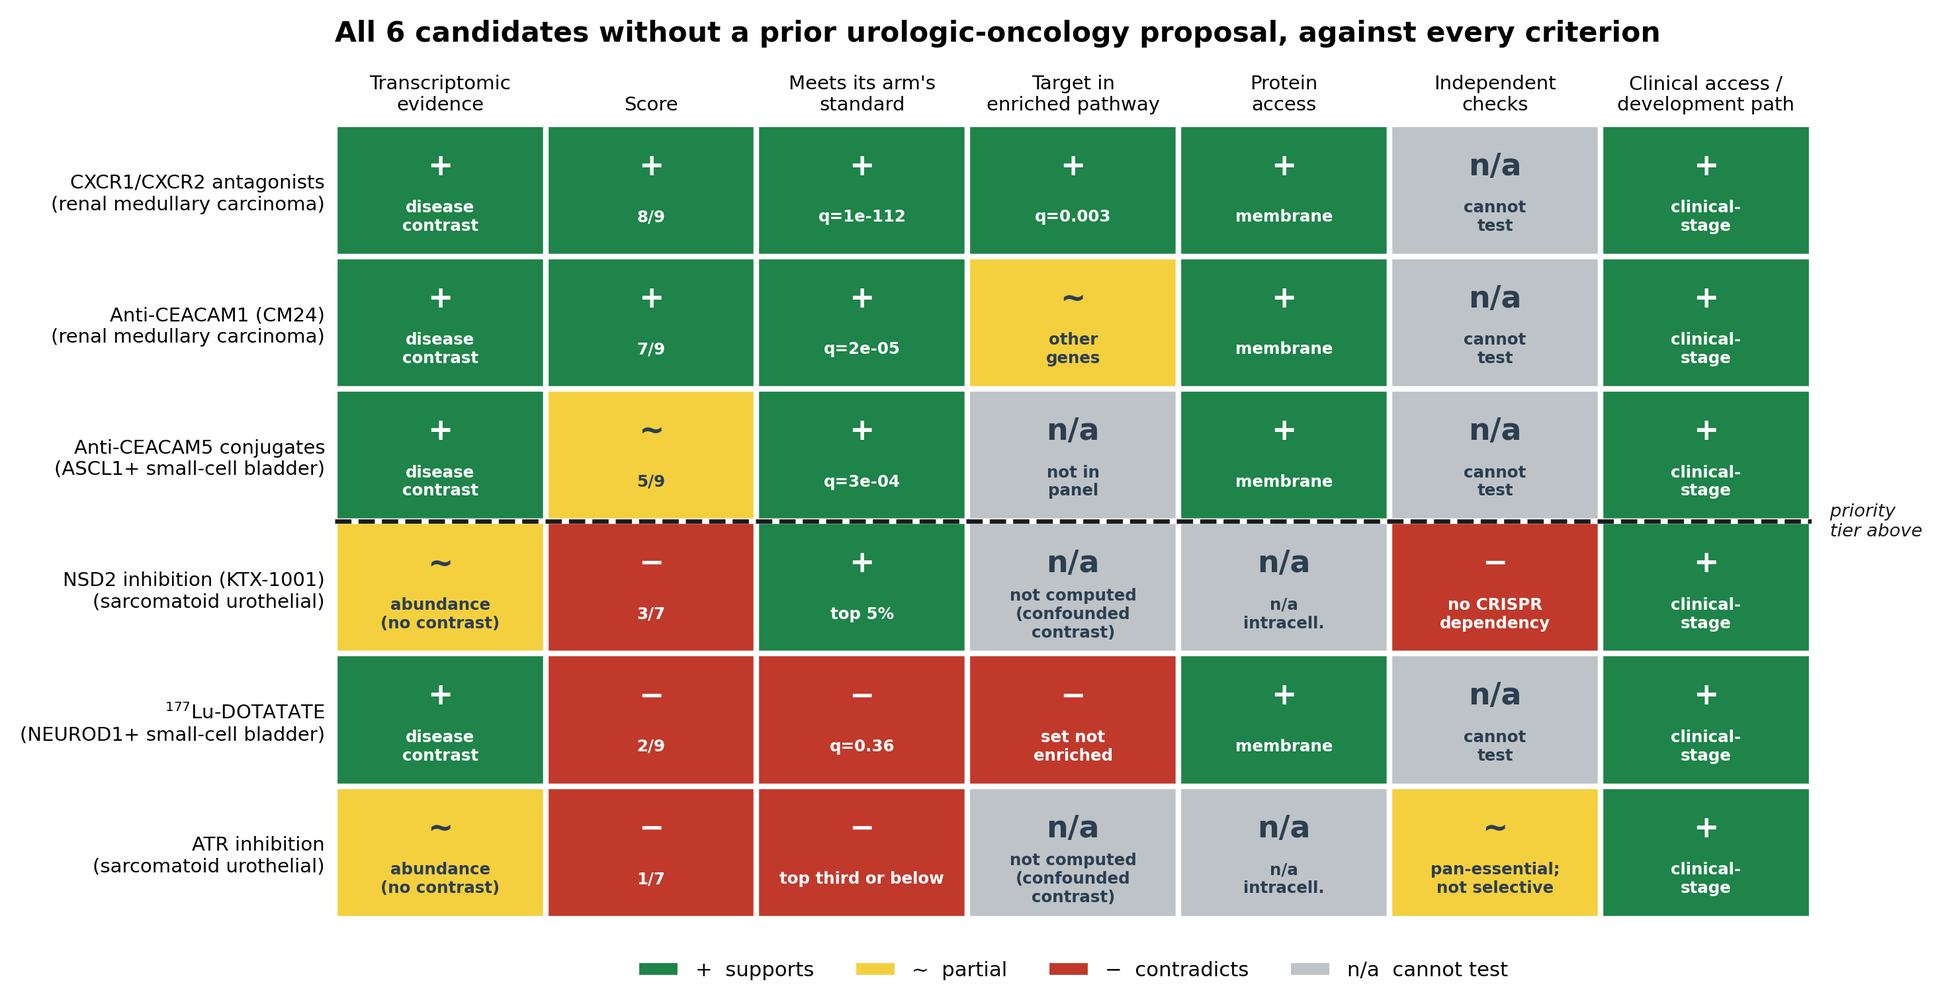
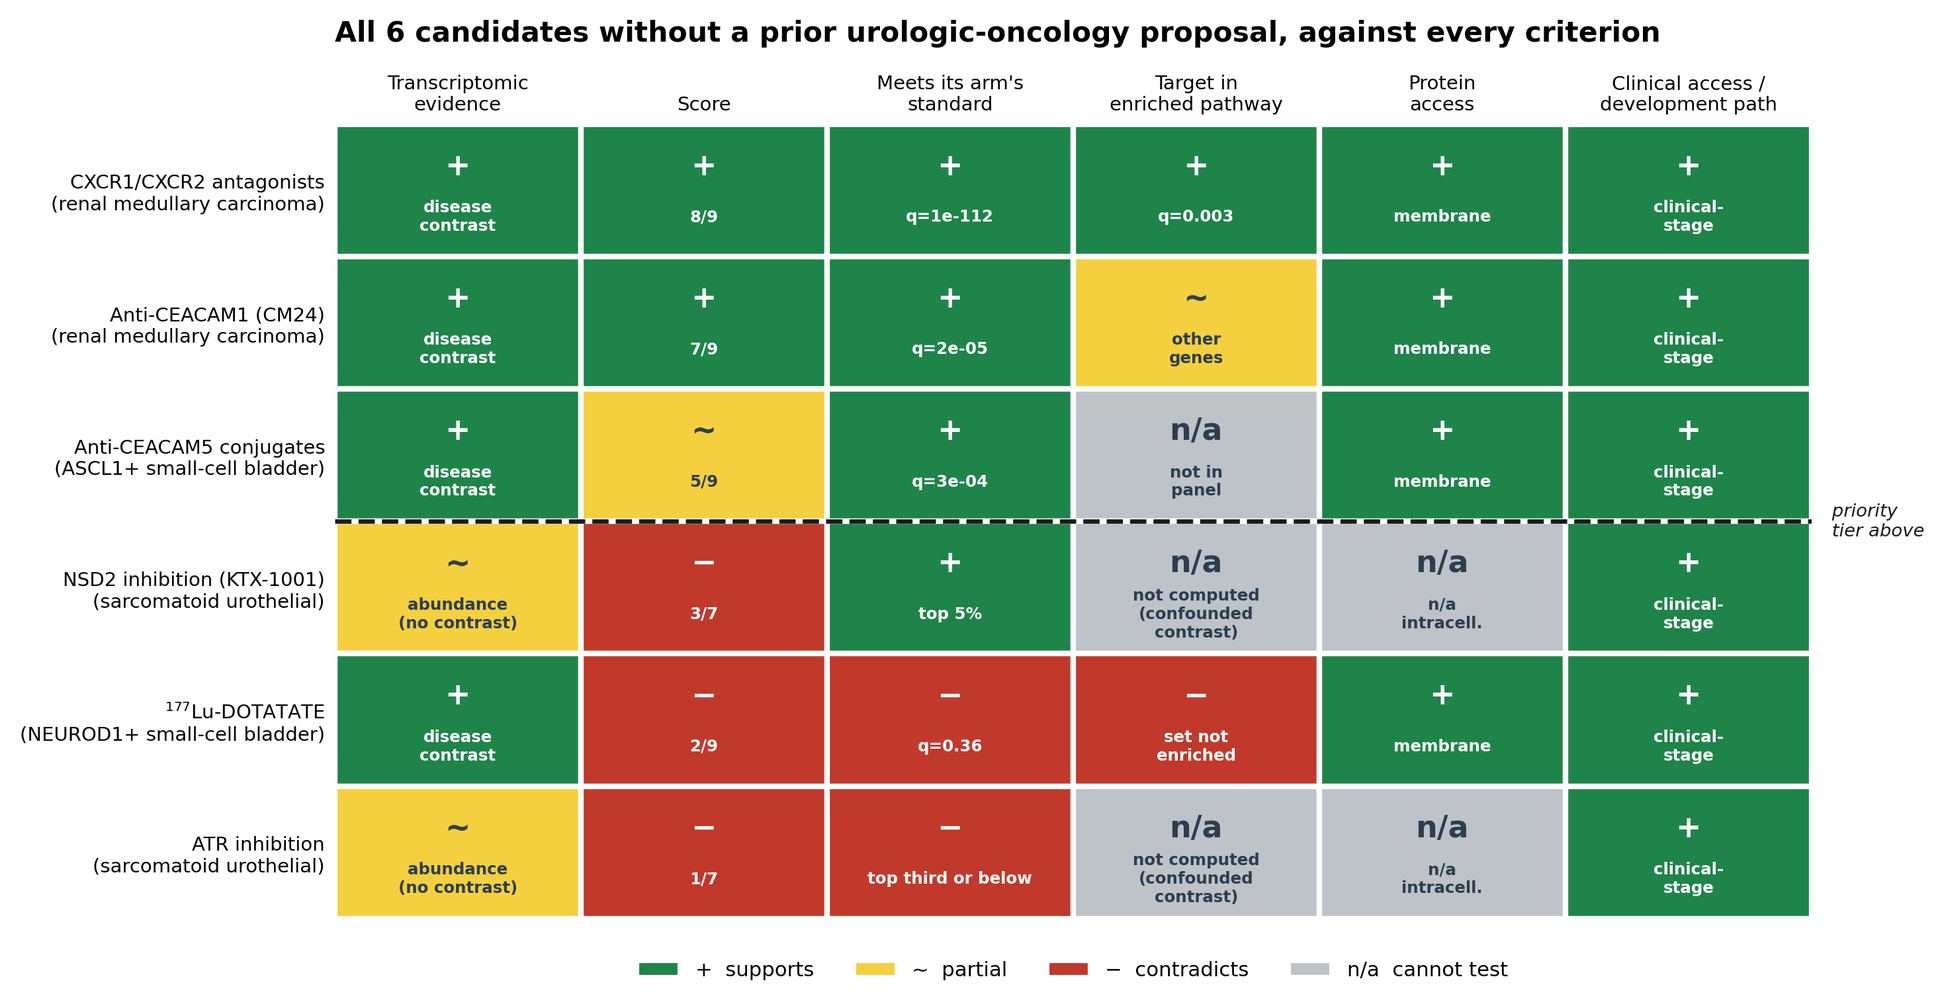
Move the independent checks to the Supplementary Materials
The four sources changed no ranking, the paper said so, and in Figure 4 they
occupied a column that was five "cannot test" cells and one contradiction. On
the author's judgement, and on that evidence, they do not earn main-text space.

Removed from the main text: the Results "Independent Checks" section, the
Methods "Independent Sources" subsection, the two consistency checks from the
ranking criteria, Step 7 of Figure 1, and the independent-checks column of
Figure 4. Figure 1's association table now leads straight to the reported
candidates and the vertical gap Step 7 left is closed.

Two things are deliberately kept. The Human Protein Atlas citation moves into
the two sentences that assert a target sits at the cell membrane: two of the
three prioritized candidates are antibody proposals, and that claim needs its
source whether or not there is a checks section. And one sentence in Data
Availability records that DepMap, PRISM and LINCS were checked, changed no
ranking, and are reported in full in the supplement - which keeps those four
references cited and answers a reviewer who asks whether external resources
were consulted.

The renal medullary qualification is reworded rather than dropped. It said the
dependency and compound screens cannot test a myeloid mechanism; it now says no
tumor-cell assay can, which is the actual point and does not depend on sections
the main text no longer contains.
[…]

diff --git a/code/pipeline/48_build_manuscript_v29.py b/code/pipeline/48_build_manuscript_v29.py
@@ -206,9 +206,8 @@ P(f"Methods. We used TCGA and GEO "
   f"drug-target curation were combined into a 9-point score. Differential "
   f"expression was fitted with models matched to how each dataset was built, "
   f"using limma and edgeR. After scoring, we classified associations by "
-  f"whether they had been proposed before, checked them against four "
-  f"independent sources not used in scoring, and ranked them by a rule "
-  f"written in advance.")
+  f"whether they had been proposed before, and ranked them by a rule written "
+  f"in advance.")
 P(f"Results. We scored {F['n_associations']} drug-cancer associations: "
   f"{F['tiers'].get('Strong', 0)} Strong, {F['tiers'].get('Moderate', 0)} "
   f"Moderate, {F['tiers'].get('Exploratory', 0)} Exploratory and "
@@ -342,14 +341,6 @@ P(f"This was a curated search rather than an exhaustive screen, and the "
   f"fold change above 0.5, and most of those genes have no clinically "
   f"evaluable agent.")
 
-H('Independent Sources', 11.5, 10, level=2)
-P('Candidates were checked against four '
-  'independent '
-  'sources that took no part in scoring: the Human Protein Atlas for '
-  'localization and normal-tissue expression, DepMap for CRISPR dependency, '
-  'the PRISM Repurposing screen for compound activity, and LINCS L1000 for '
-  'signature reversal.')
-
 H('Prioritization Score', 11.5, 10, level=2)
 P('Each association received 0 to 9 points across four dimensions: genomic '
   'evidence (0\u20133), transcriptomic evidence (0\u20133), pathway evidence '
@@ -389,11 +380,7 @@ for _c in ('no prior urologic-oncology proposal identified;',
     _p.paragraph_format.space_after = Pt(2)
     for _r in _p.runs:
         _r.font.size = Pt(10.5)
-P('Two consistency checks were applied in addition: that no independent '
-  'source contradict the candidate, and that target accessibility match the '
-  'kind of agent proposed, a source unable to evaluate a candidate counting '
-  'as neither. '
-  'Where a disease held more than one prioritized candidate, the first rank '
+P('Where a disease held more than one prioritized candidate, the first rank '
   'also '
   'required that the target belong to an enriched pathway. A candidate that '
   'missed a criterion is reported with that criterion named.')
@@ -512,60 +499,6 @@ P(f"Penile squamous cell carcinoma is reported in the Supplementary Results "
   f"converges on the established pembrolizumab priority [49\u201351], with "
   f"two partially-novel candidates alongside it [52\u201354]; none of its "
   f"associations was without a prior proposal.")
-H('Independent Checks', 11.5, 10, level=2)
-P('Most associations are nominated from transcript abundance, which shows that '
-  'a gene is transcribed but not that the cell depends on it or that its '
-  'protein reaches the cell surface. We therefore checked the nominated '
-  'targets against four sources not used in scoring. None of the four can '
-  'establish that an agent works, each is unable to evaluate some candidates, '
-  'and none of them changed which candidates were prioritized. Full '
-  'results for all four are in the Supplementary Materials, including the '
-  'LINCS L1000 signature-reversal analysis [55,56], which returned the same '
-  'agents across unrelated lineages and so could not distinguish candidates.')
-
-P(f"Protein localization is the check most relevant to these proposals, "
-  f"because an antibody or conjugate must reach its target from outside the "
-  f"cell. All {F['hpa']['n_surface_assoc']} associations whose agent "
-  f"binds from outside the cell have confirmed extracellular access in the "
-  f"Human "
-  f"Protein Atlas [57], which shows where the protein is, not how much is "
-  f"present in the tumor. "
-  f"Normal-tissue RNA is reported for orientation only and is not a "
-  f"therapeutic-window comparison: CEACAM1 is substantially expressed in "
-  f"normal kidney ({F['hpa']['CEACAM1_kidney']} normalized transcripts per "
-  f"million) and warrants protein-level safety assessment. Per-target values "
-  f"are in Supplementary Table S1.")
-
-P(f"Both screens returned the expected result for targets with a known "
-  f"answer. In DepMap [58], across "
-  f"{F['depmap']['n_urothelial_lines']} urothelial lines stratified by "
-  f"genotype and target expression from CCLE via cBioPortal [3], RPL5 scores "
-  f"{F['depmap']['RPL5']:.2f} on the Chronos scale, and PIK3CA-mutant lines "
-  f"are selectively "
-  f"dependent on PIK3CA ({F['depmap']['PIK3CA_mut']:.2f} versus "
-  f"{F['depmap']['PIK3CA_wt']:.2f}). In the PRISM Repurposing screen across "
-  f"up to {F['prism']['n_lines']} cell lines [59], compared by two-sided Welch test "
-  f"with Benjamini-Hochberg correction, erlotinib is markedly more active in "
-  f"urothelial lines ({F['prism']['erlotinib_uro']:.2f} versus "
-  f"{F['prism']['erlotinib_nonuro']:.2f}; q = {F['prism']['erlotinib_q']:.4f}). "
-  f"That comparison is urothelial, not renal medullary: the renal medullary "
-  f"line itself sits at the {ordinal(round(F['prism']['erlotinib_rmc_pct']))} "
-  f"percentile of all lines, so the screen supports erlotinib in urothelial "
-  f"cancer but not the renal medullary rationale it was nominated for.")
-
-P(f"Two results apply to our own candidates. Urothelial cells do not require "
-  f"NSD2 even where they express it most highly "
-  f"({F['depmap']['NSD2_high']:+.2f}), and the ATR inhibitor VE-822 is not "
-  f"urothelial-selective (q = {F['prism']['ve822_q']:.2f}) where an earlier, "
-  f"weaker comparison had called it so. Both candidates were already outside "
-  f"the prioritized set on their scores, so neither screen altered the ranking. "
-  f"Neither screen can evaluate an antibody, conjugate or radioligand, whose "
-  f"agent delivers a payload rather than exploiting an essential target, nor a "
-  f"mechanism that acts through myeloid recruitment rather than on the tumor "
-  f"cell; the four screened CXCR1/CXCR2 antagonists accordingly show no "
-  f"tumor-cell-autonomous activity in any lineage, which is what a "
-  f"myeloid-directed mechanism would predict.")
-
 H('Candidates Without a Prior Proposal', 11.5, 10, level=2)
 P(f"Figure 4 and Table 1 together give the whole set: every association, how "
   f"it performs against each criterion, and the evidence behind it. "
@@ -599,7 +532,8 @@ P(f"We rank the prioritized candidates within a disease, not between diseases. "
 P(f"Within renal medullary carcinoma we would carry CXCR1/CXCR2 blockade "
   f"forward first, at {lead['total']}/9. Its chemokine ligands are "
   f"elevated in both patient-derived lines, both receptors are confirmed "
-  f"membrane proteins, and the antagonist class is already in clinical "
+  f"membrane proteins in the Human Protein Atlas [55], and the "
+  f"antagonist class is already in clinical "
   f"development with human pharmacology and safety data. CXCR1 and CXCR2 "
   f"belong to a chemokine gene set enriched in both lines "
   f"(q = {q['rmc_chemokine']:.4f}) and CEACAM1 belongs to no enriched set, "
@@ -617,7 +551,8 @@ P(f"Within renal medullary carcinoma we would carry CXCR1/CXCR2 blockade "
 P(f"Anti-CEACAM5 conjugates in ASCL1-positive small-cell bladder cancer are the "
   f"third prioritized candidate. CEACAM5 is strongly enriched in that subtype "
   f"({de['CEACAM5_ascl1']['log2FC']:+.2f}, "
-  f"q = {fmt(de['CEACAM5_ascl1']['q'])}), confirmed at the membrane and low "
+  f"q = {fmt(de['CEACAM5_ascl1']['q'])}), confirmed at the membrane in the "
+  f"Human Protein Atlas [55] and low "
   f"in normal bladder RNA ({F['hpa']['nTPM']['CEACAM5']} normalized "
   f"transcripts per million, which orients safety planning rather than "
   f"demonstrating a systemic therapeutic window), and the drug class is in "
@@ -626,10 +561,9 @@ P(f"Anti-CEACAM5 conjugates in ASCL1-positive small-cell bladder cancer are the 
   f"sets, so no pathway evidence supports it, and that subtype-specific protein "
   f"expression, internalization and payload sensitivity in small-cell bladder "
   f"cancer are all untested.")
-P(f"One qualification applies to the renal medullary lead: the dependency and "
-  f"compound screens cannot test a mechanism that works through myeloid "
-  f"recruitment, so the absence of a signal in either screen is not evidence "
-  f"for or against it. All three are hypotheses, "
+P(f"One qualification applies to the renal medullary lead: its mechanism acts "
+  f"through myeloid recruitment, so no tumor-cell assay can test it in either "
+  f"direction. All three are hypotheses, "
   f"not validated findings, and the experiment that would settle this one is "
   f"CXCR1/CXCR2 blockade in an immunocompetent model with an intact myeloid "
   f"compartment.")
@@ -648,15 +582,15 @@ P(f"Refitting cost two candidates, by different routes. Somatostatin "
   f"confounded with array chip, which is why ATR is scored on abundance.")
 
 P('Computational repurposing from public expression data is an established '
-  'approach, and several groups have built comparable pipelines [60]. '
+  'approach, and several groups have built comparable pipelines [56]. '
   'GETgene-AI ranks actionable cancer targets by combining mutation '
   'frequency, differential expression and known drug-target annotation, much '
-  'as the score used here does [61]. Signature reversion against perturbation '
+  'as the score used here does [57]. Signature reversion against perturbation '
   'libraries has been applied to four low-survival cancers, with the choice of '
   'differential-expression method itself changing which candidates emerge '
-  '[62]; that sensitivity is consistent with what we found when the primary '
+  '[58]; that sensitivity is consistent with what we found when the primary '
   'data were refitted. Pathway2Targets prioritizes targets by the pathways '
-  'they belong to, the same signal our eighteen gene sets supply [63]. Those '
+  'they belong to, the same signal our eighteen gene sets supply [59]. Those '
   'methods are built and benchmarked on common cancers, where cohorts are '
   'large enough to support them. We applied this class of method to cancers '
   'whose cohorts are too small to support one, with positive controls run '
@@ -702,7 +636,7 @@ P(f"One further limitation follows from how candidates were selected. A gene "
   f"rare, a significance threshold partly measures how little data has been "
   f"deposited rather than anything about the biology, and a real target that "
   f"falls short of significance in a small cohort is therefore never "
-  f"nominated; proteasome inhibition in renal medullary carcinoma [64] is one "
+  f"nominated; proteasome inhibition in renal medullary carcinoma [60] is one "
   f"such candidate. Further work could extend the search to the less "
   f"significant genes we set aside. Deposited data also limited the scope: "
   f"several variants of immediate interest, including primary "
@@ -744,8 +678,8 @@ P('All datasets used are publicly available without restriction. Genomic '
   'Cancer Genome Atlas Pan-Cancer Atlas 2018 via cBioPortal. Ten Gene Expression '
   'Omnibus accessions provided transcriptomic evidence: GSE199274, GSE216053 and '
   'GSE216052 (neuroendocrine prostate cancer); GSE130598 (muscle-invasive '
-  'bladder cancer kinome); GSE143630 [65] (clear cell renal cell carcinoma); '
-  'GSE157256 [66] (hereditary leiomyomatosis renal cell cancer, reported as '
+  'bladder cancer kinome); GSE143630 [61] (clear cell renal cell carcinoma); '
+  'GSE157256 [62] (hereditary leiomyomatosis renal cell cancer, reported as '
   'adjacent-disease context only); GSE180999 (renal medullary carcinoma); '
   'GSE196978 (penile squamous cell carcinoma); GSE128192 (sarcomatoid versus '
   'conventional urothelial carcinoma); and GSE269750 (small-cell bladder cancer, '
@@ -761,6 +695,10 @@ P('All datasets used are publicly available without restriction. Genomic '
   f'({ZENODO_CONCEPT_DOI}, which resolves to the most recent archived version'
   + (f'; this manuscript corresponds to {ZENODO_VERSION_DOI}' if ZENODO_VERSION_DOI
      else '') + '). '
+  'The nominated targets were also checked against DepMap [63], the PRISM '
+  'Repurposing screen [64] and LINCS L1000 [65,66]; none of the three changed '
+  'which candidates were prioritized, and all three are reported in the '
+  'Supplementary Materials. '
   'The pipeline runs end to end from the deposited code; the large primary '
   'deposits are re-downloaded by the first script rather than mirrored.')
 
@@ -779,10 +717,8 @@ FIGURES = [
      'pre-specified druggable pathway or gene sets, compared against only the '
      'genes that dataset measured; drug-target curation; a 9-point prioritization '
      'score; and a PubMed search for prior proposals, run only after '
-     'scoring was complete. Step 7 checks candidates against four sources '
-     'that contributed nothing to any score and changed no ranking. '
-     'Candidates are ranked by a rule fixed before it was applied; none is '
-     'discarded.'),
+     'scoring was complete. Candidates are ranked by a rule fixed before it '
+     'was applied; none is discarded.'),
     ('Figure2_RMC.png', 6.9,
      'Figure 2. Renal medullary carcinoma. (A) Effect in RMC-2C against effect '
      'in RMC219 for every gene measured in both lines. The genome-wide '
@@ -824,14 +760,8 @@ FIGURES = [
      'of 4 or better out of the points available for that row; E3, '
      'transcriptomic evidence strong enough for the kind it rests on, '
      'q < 0.05 on a disease contrast or the top 15% of transcripts on '
-     'abundance; and E4, an agent in clinical development. Two consistency '
-     'checks applied in addition: that no independent source contradict the '
-     'candidate and that the target be reachable by the kind of agent '
-     'proposed. A source that '
-     'cannot evaluate a candidate is not evidence for it, so absence of '
-     'contradiction is weaker than positive support. Every candidate placed '
-     'below the line was placed there by E2 or E3; the independent checks '
-     'moved none.'),
+     'abundance; and E4, an agent in clinical development. Every candidate '
+     'placed below the line was placed there by E2 or E3.'),
 ]
 for name, width, legend in FIGURES:
     path = FIG / name

diff --git a/code/pipeline/12_generate_figures.py b/code/pipeline/12_generate_figures.py
@@ -38,7 +38,7 @@ plt.rcParams.update({
 def generate_figure1():
     print("Generating Figure 1: pipeline schematic")
     fig, ax = plt.subplots(figsize=(11, 11.55))
-    ax.set_xlim(0, 11); ax.set_ylim(-2.55, 9.0); ax.axis('off')
+    ax.set_xlim(0, 11); ax.set_ylim(-1.42, 9.0); ax.axis('off')
 
     ax.text(5.5, 8.75,
             'Figure 1. Public-Data Prioritization of Drug Hypotheses',
@@ -180,39 +180,19 @@ def generate_figure1():
             ha='center', va='center', fontsize=7.3, style='italic',
             color='#1d4d33')
 
-    # ---- Step 7: independent evidence for the no-prior-proposal column ----
-    # Only the framework-novel column is carried forward, so the arrow leaves
-    # from beneath that column rather than from the centre of the table box.
-    ax.annotate('', xy=(4.85, -0.36), xytext=(4.85, 0.05),
+    # the independent checks moved to the Supplementary Materials; the
+    # association table now leads straight to the reported candidates
+    ax.annotate('', xy=(4.85, -0.32), xytext=(4.85, 0.05),
                 arrowprops=dict(arrowstyle='->', lw=1.8, color='#c00000'))
-    ax.add_patch(FancyBboxPatch((1.20, -1.31), 8.60, 0.93,
-                                 boxstyle='round,pad=0.04',
-                                 ec='#1e8449', fc='#d4efdf', linewidth=1.1))
-    ax.text(5.50, -0.62,
-            'Step 7 \u2014 consistency checks; no source contributed to a score, '
-            'and none changed the ranking',
-            ha='center', va='center', fontsize=9.3, weight='bold',
-            color='#1a1a1a')
-    ax.text(5.50, -0.90,
-            'Human Protein Atlas localisation + normal tissue   ·   '
-            'DepMap CRISPR dependency (genotype-stratified)',
-            ha='center', va='center', fontsize=7.5, color='#333')
-    ax.text(5.50, -1.11,
-            'PRISM Repurposing compound activity   ·   '
-            'LINCS L1000 signature reversal',
-            ha='center', va='center', fontsize=7.5, color='#333')
 
-    ax.annotate('', xy=(5.5, -1.52), xytext=(5.5, -1.34),
-                arrowprops=dict(arrowstyle='->', lw=1.8, color='#1a1a1a'))
-
-    ax.add_patch(FancyBboxPatch((0.55, -2.42), 9.90, 0.94,
+    ax.add_patch(FancyBboxPatch((0.55, -1.28), 9.90, 0.94,
                                  boxstyle='round,pad=0.05',
                                  ec='#1a1a1a', fc='#1e8449', linewidth=1.4))
-    ax.text(5.50, -1.72,
+    ax.text(5.50, -0.58,
             'All 6 candidates reported \u2014 3 priority, 3 lower confidence',
             ha='center', va='center', fontsize=10.5, weight='bold',
             color='white')
-    ax.text(5.50, -2.02,
+    ax.text(5.50, -0.88,
             'priority: renal medullary carcinoma, CXCR1/CXCR2 blockade then '
             'anti-CEACAM1   \u00b7   ASCL1+ small-cell bladder, anti-CEACAM5\n'
             'lower confidence: NSD2 and ATR in sarcomatoid UC, SSTR2 in NEUROD1+ '

diff --git a/code/pipeline/49_audit_manuscript_v29.py b/code/pipeline/49_audit_manuscript_v29.py
@@ -67,7 +67,7 @@ check('4 figures embedded', len(doc.inline_shapes) == 4, str(len(doc.inline_shap
 check('one condensed table in the main text', len(doc.tables) == 1)
 # JCO CCI uses unnumbered title-case subsection headings
 RES_SUBS = ('The Association Table', 'Positive Controls',
-            'Rare and Variant Cancers', 'Independent Checks',
+            'Rare and Variant Cancers',
             'Candidates Without a Prior Proposal')
 check('five Results subsections', all(h in paras for h in RES_SUBS),
       str([h for h in RES_SUBS if h not in paras]))
@@ -102,7 +102,7 @@ check('framework-novel language replaced with a search statement',
 
 # Methods must carry named subsections including a statistics section, and must
 # not restate the selection criteria the pipeline no longer applies
-METH_SUBS = ('Data Sources', 'Candidate Selection', 'Independent Sources',
+METH_SUBS = ('Data Sources', 'Candidate Selection',
              'Prioritization Score', 'Prior-Proposal Classification',
              'Ranking Criteria', 'Statistical Analysis')
 check('Methods has named subsections', all(h in paras for h in METH_SUBS),
@@ -210,8 +210,8 @@ check('TROP2 direction stated without a scored claim',
       and 'carries no score' in both)
 check('two-line correlation reported', str(F['rmc']['r_between_lines']) in text)
 check('both-lines gene count reported', str(F['rmc']['up_both']) in text)
-check('CXCR1 vs CEACAM1 window contrasted',
-      str(F['hpa']['CXCR1_kidney']) in text and str(F['hpa']['CEACAM1_kidney']) in text)
+# the paragraph that contrasted the two normal-kidney values moved to the
+# supplement with the rest of the independent checks
 
 print('\n4. NEW LIMITATIONS ARE STATED')
 check('sarcomatoid batch confounding disclosed',
@@ -346,7 +346,8 @@ check('sarcomatoid rows scored on the arm their data supports',
 check('PRISM no longer claims absence of off-target cytotoxicity',
       'absence of off-target cytotoxicity' not in text)
 check('normal-tissue RNA not used as a therapeutic-window claim',
-      'not a therapeutic-window' in text)
+      'not a therapeutic-window' in text
+      or 'rather than demonstrating a systemic therapeutic window' in text)
 # the DLL3 section that carried tarlatamab's approval dates was removed; the
 # limitation it supported is now one sentence in the Discussion
 # the panel scores candidates and never gated one; nothing may imply otherwise

diff --git a/code/pipeline/42_figure5_selection_v29.py b/code/pipeline/42_figure5_selection_v29.py
@@ -51,7 +51,7 @@ NAMES = {
 }
 COLS = ['Transcriptomic\nevidence', 'Score', 'Meets its arm\'s\nstandard',
         'Target in\nenriched pathway', 'Protein\naccess',
-        'Independent\nchecks', 'Clinical access /\ndevelopment path']
+        'Clinical access /\ndevelopment path']
 
 sel = sel.sort_values(['survives', 'total'], ascending=[False, False])
 if 'pathway_estimable' not in sel.columns:
@@ -109,16 +109,6 @@ for _, r in sel.iterrows():
     else:
         cells.append(UNTESTED); txt.append('n/a')
 
-    # the dependency and compound screens are one column: for five of the six
-    # rows neither screen can speak to the candidate at all
-    dl, cl = str(r['dependency_layer']), str(r['compound_layer'])
-    if dl.startswith('no dependency'):
-        cells.append(AGAINST); txt.append('no CRISPR\ndependency')
-    elif 'not selective' in dl or 'active but not selective' in cl:
-        cells.append(PARTIAL)
-        txt.append('pan-essential;\nnot selective')
-    else:
-        cells.append(UNTESTED); txt.append('cannot\ntest')
 
     if 'E4' in str(r['failed_criteria']):
         cells.append(AGAINST); txt.append('discontinued')
